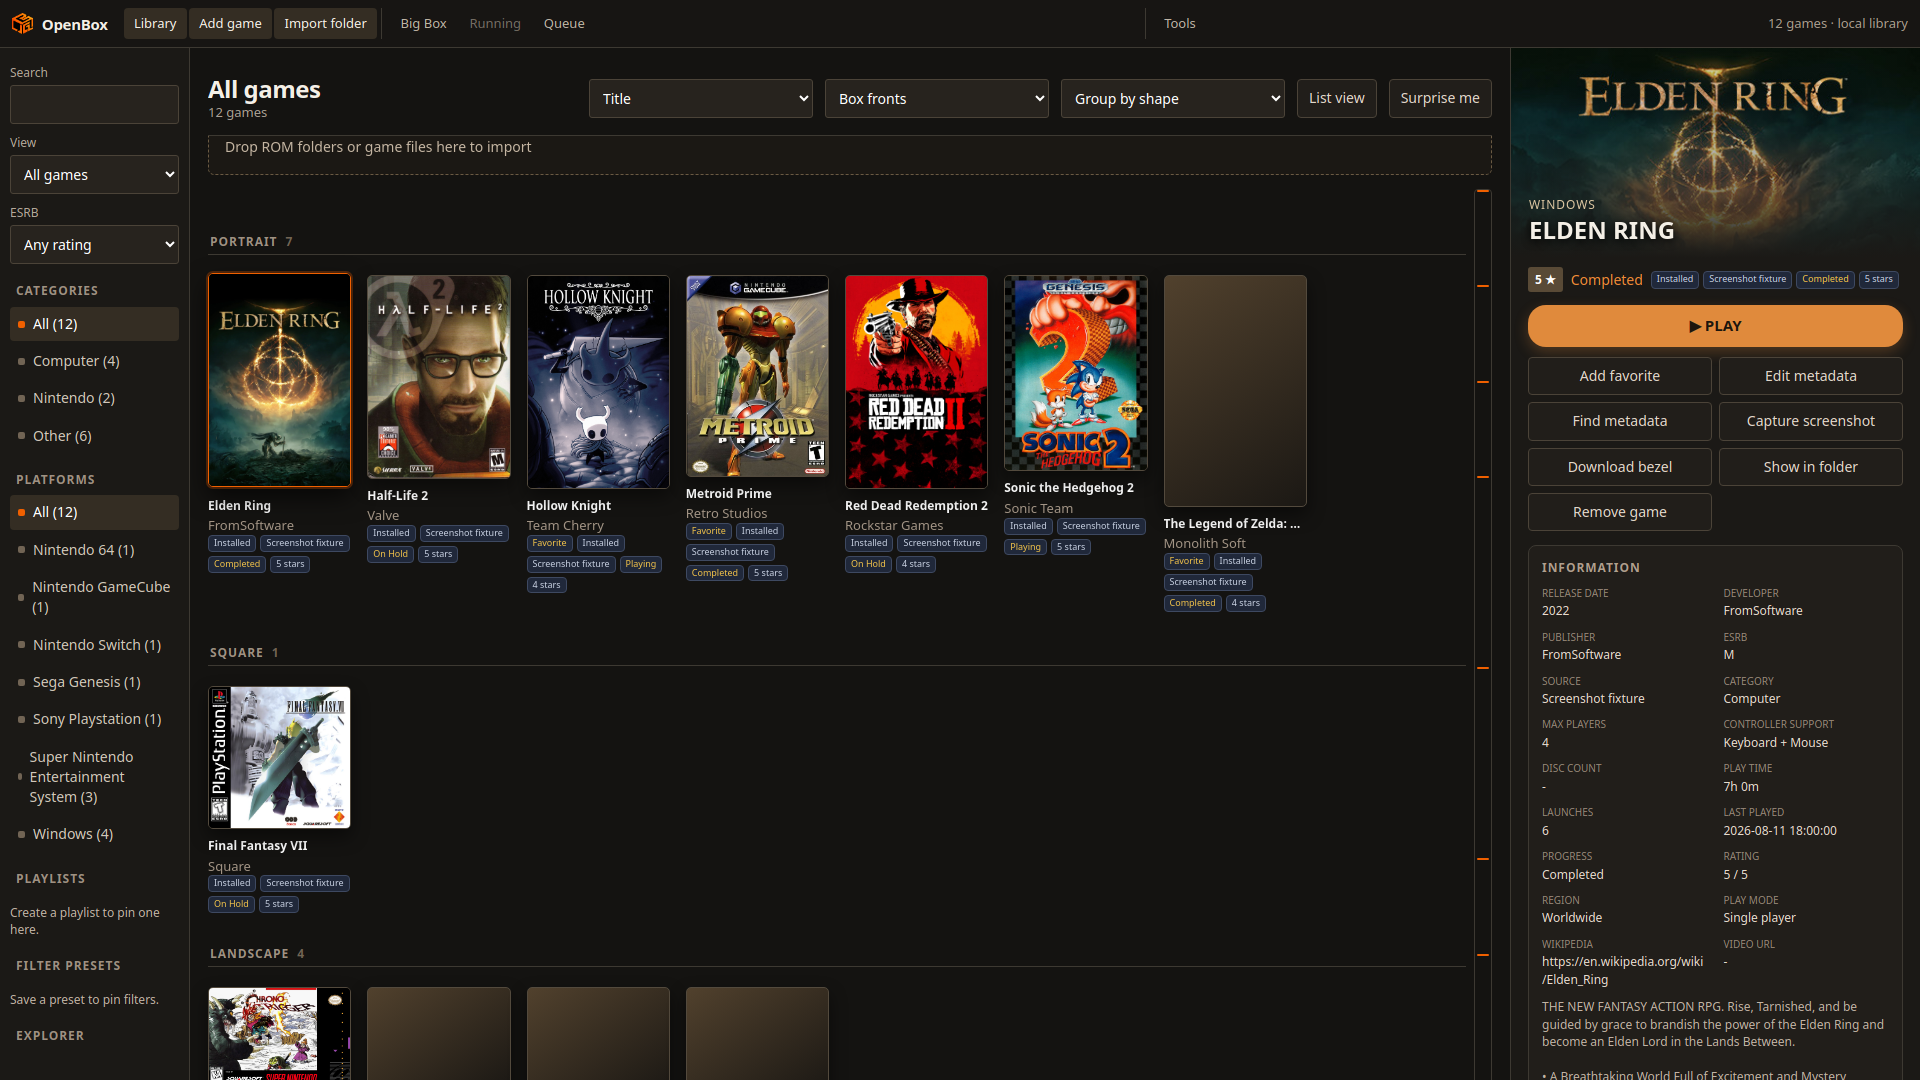
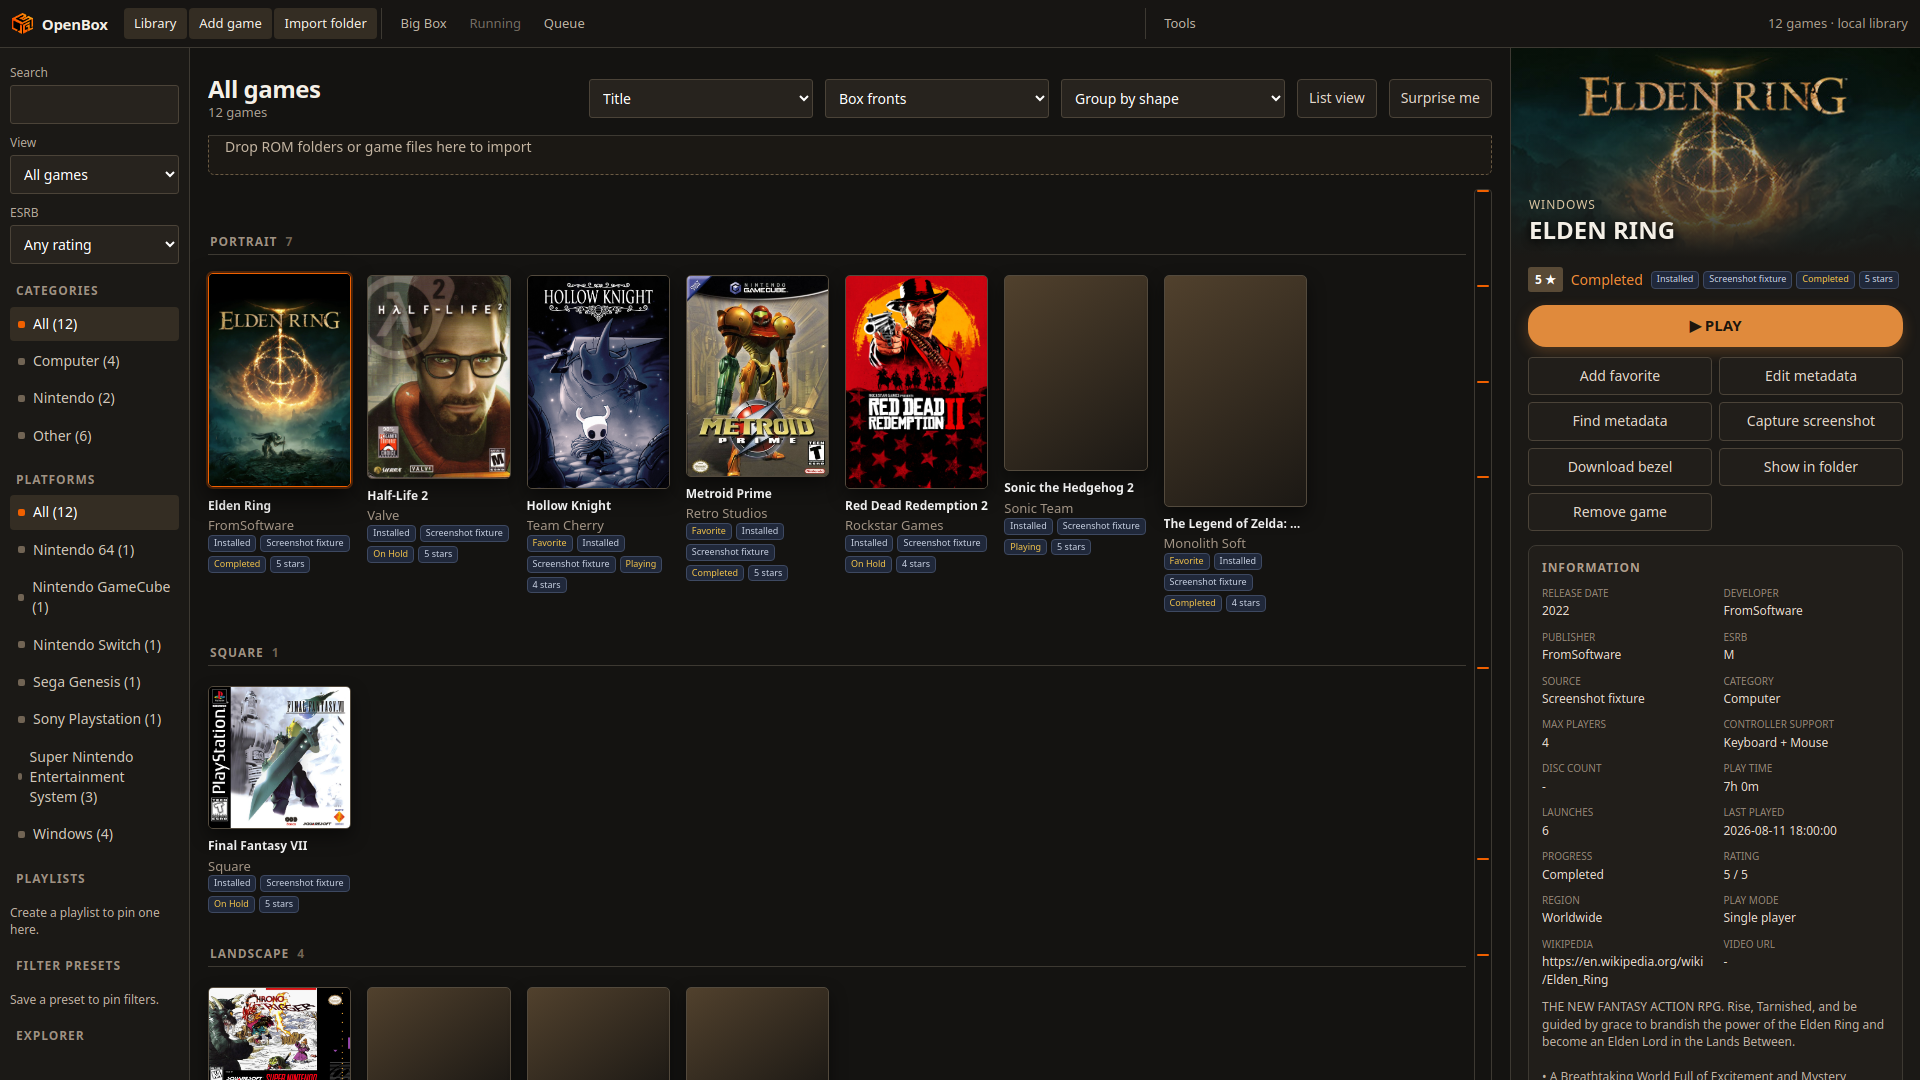
fix(screenshots): capture every cover fully and remove the white focus ring
The README screenshots were captured mid-render, so several game cards
showed empty placeholder covers, and the Big Box capture carried a thin
white frame around its edges.

- The grid regroups by cover aspect ratio after images load, which swaps
  the img elements. The capture script now waits until the grid DOM is
  stable AND every cover is decoded (img.decode()) before shooting, and
  re-runs that wait after the game-detail selection re-renders the grid.
- The Big Box white frame was Chrome's UA focus outline: openBigBox()
  focuses the fullscreen #bigBox section, and the light UA focus-ring
  color painted a white ring around the viewport edges. The container is
  not an interactive control (inner buttons keep their own focus rings),
  so .bigbox:focus{outline:none} removes the artifact in the app and in
  captures alike.
- html now paints an opaque var(--bg) background, preventing any white
  canvas bleed on load or during window transitions.

All three 1920x1080 captures now show real cover art on every card, with
dark edges on every side (pixel-verified). Verification: ui_smoke.sh
passes with all five theme menus ok and no JS errors; 47/47 tests pass.

Changed region(s): [[0.5, 0.2444, 0.5938, 0.4583]]

diff --git a/static/app.css b/static/app.css
@@ -25,6 +25,7 @@
       -webkit-text-size-adjust:100%;
       text-size-adjust:100%;
     }
+    html { height:100%; background:var(--bg); }
     body {
       margin:0; overflow:hidden; color:var(--text); font:var(--font-body)/1.45 ui-sans-serif,system-ui,sans-serif;
       background:var(--bg);
@@ -282,6 +283,7 @@
     .lifecycle h2 { max-width:80vw; margin:12px 0 6px; font-size:clamp(34px,6vw,78px); line-height:1; text-transform:uppercase; }
     .lifecycle p { color:#c0b3a4; font-size:var(--font-action); }
     .bigbox { position:fixed; z-index:30; inset:0; display:grid; grid-template-rows:auto 1fr auto; padding:34px 46px; overflow:hidden; cursor:none; background:radial-gradient(circle at 70% 30%,var(--bigbox-bg),var(--bg) 68%); }
+    .bigbox:focus, .bigbox:focus-visible { outline:none; }
     .bigbox[hidden] { display:none; }
     .bigbox-head { display:flex; align-items:center; color:#c8bba7; text-transform:uppercase; letter-spacing:.15em; }
     .bigbox-head strong { color:#fff; font-size:var(--font-subtitle); }
